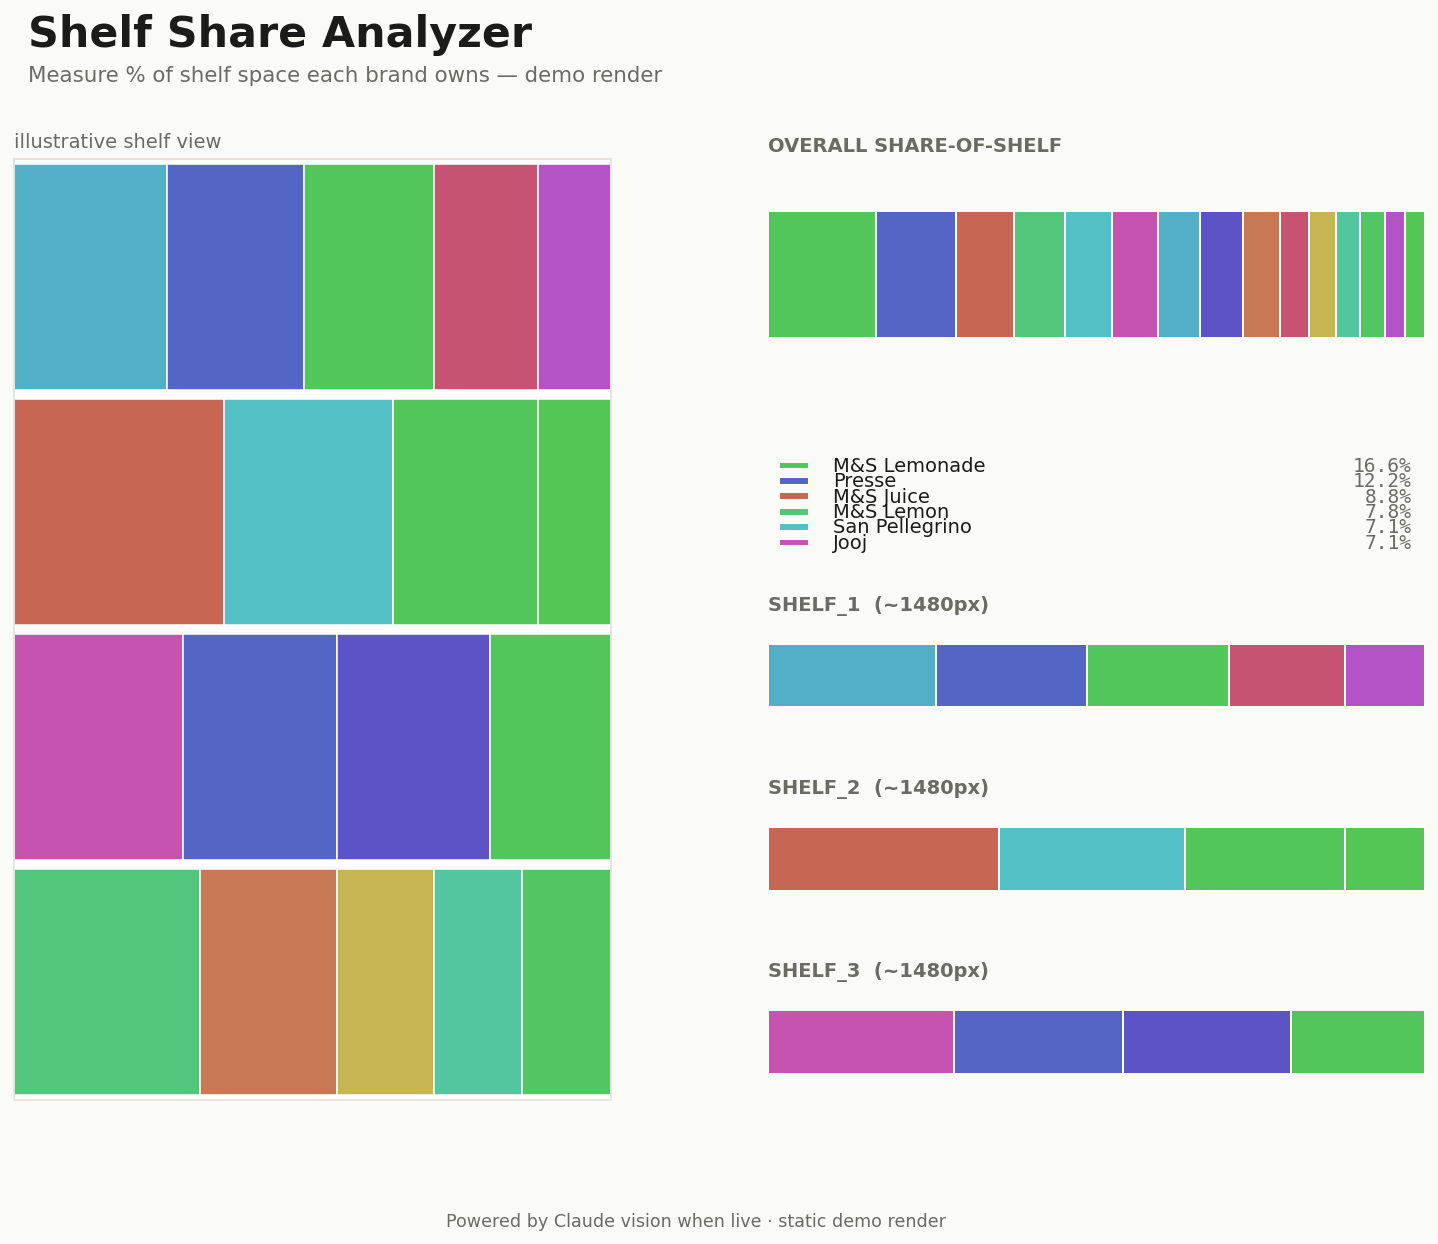
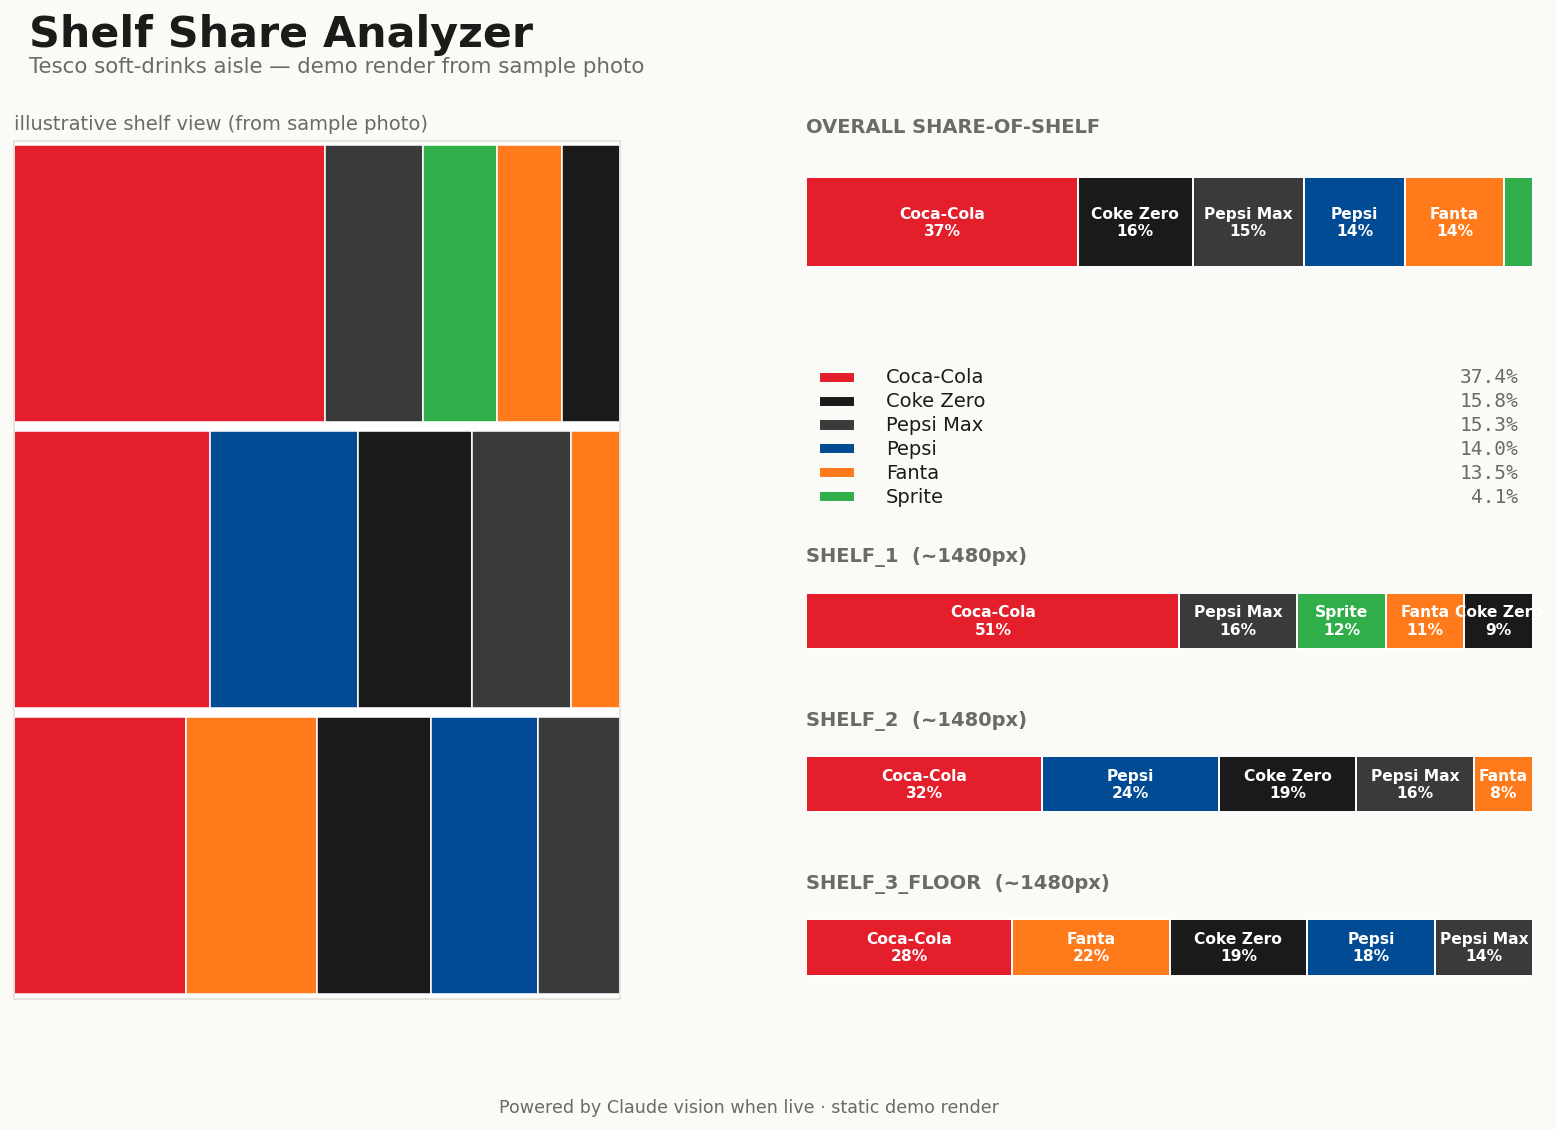
update mock data + render to match sample Tesco soft-drinks photo
Replaces the M&S-themed canned data with a Coke/Pepsi/Fanta/Sprite mix
and gives those brands true brand colours in the PNG render.

https://claude.ai/code/session_01UH64QWwZP6UqPea4zwyqt8

diff --git a/demo.html b/demo.html
@@ -85,30 +85,25 @@ main{max-width:1100px;margin:0 auto;padding:28px 24px 48px}
 const DATA = {
   shelves: [
     { shelf:"shelf_1", total_width_px:1480, brands:[
-      {brand:"M&S Lemonade",    width_px:320},
-      {brand:"M&S Ginger Beer", width_px:180},
-      {brand:"M&S Blends",      width_px:380},
-      {brand:"M&S Cordial",     width_px:260},
-      {brand:"Presse",          width_px:340},
+      {brand:"Pepsi Max",  width_px:240},
+      {brand:"Sprite",     width_px:180},
+      {brand:"Coca-Cola",  width_px:760},
+      {brand:"Coke Zero",  width_px:140},
+      {brand:"Fanta",      width_px:160},
     ]},
     { shelf:"shelf_2", total_width_px:1480, brands:[
-      {brand:"M&S Lemonade",      width_px:360},
-      {brand:"San Pellegrino",    width_px:420},
-      {brand:"M&S British Apple", width_px:180},
-      {brand:"M&S Juice",         width_px:520},
+      {brand:"Pepsi",      width_px:360},
+      {brand:"Pepsi Max",  width_px:240},
+      {brand:"Coca-Cola",  width_px:480},
+      {brand:"Coke Zero",  width_px:280},
+      {brand:"Fanta",      width_px:120},
     ]},
-    { shelf:"shelf_3", total_width_px:1480, brands:[
-      {brand:"M&S Lemonade",   width_px:300},
-      {brand:"Jooj",           width_px:420},
-      {brand:"Presse",         width_px:380},
-      {brand:"M&S Sparkling",  width_px:380},
-    ]},
-    { shelf:"shelf_4", total_width_px:1480, brands:[
-      {brand:"Coca-Cola",       width_px:340},
-      {brand:"Fanta",           width_px:220},
-      {brand:"Coca-Cola Zero",  width_px:240},
-      {brand:"M&S Cola",        width_px:220},
-      {brand:"M&S Lemon",       width_px:460},
+    { shelf:"shelf_3_floor", total_width_px:1480, brands:[
+      {brand:"Pepsi",      width_px:260},
+      {brand:"Pepsi Max",  width_px:200},
+      {brand:"Coca-Cola",  width_px:420},
+      {brand:"Coke Zero",  width_px:280},
+      {brand:"Fanta",      width_px:320},
     ]},
   ]
 };

diff --git a/app.py b/app.py
@@ -29,39 +29,32 @@ MOCK_RESULT = {
         {
             "shelf": "shelf_1", "total_width_px": 1480,
             "brands": [
-                {"brand": "M&S Lemonade",     "width_px": 320},
-                {"brand": "M&S Ginger Beer",  "width_px": 180},
-                {"brand": "M&S Blends",       "width_px": 380},
-                {"brand": "M&S Cordial",      "width_px": 260},
-                {"brand": "Presse",           "width_px": 340},
+                {"brand": "Pepsi Max",   "width_px": 240},
+                {"brand": "Sprite",      "width_px": 180},
+                {"brand": "Coca-Cola",   "width_px": 560},
+                {"brand": "Coke Zero",   "width_px": 140},
+                {"brand": "Fanta",       "width_px": 160},
+                {"brand": "Coca-Cola",   "width_px": 200},
             ],
         },
         {
             "shelf": "shelf_2", "total_width_px": 1480,
             "brands": [
-                {"brand": "M&S Lemonade",       "width_px": 360},
-                {"brand": "San Pellegrino",     "width_px": 420},
-                {"brand": "M&S British Apple",  "width_px": 180},
-                {"brand": "M&S Juice",          "width_px": 520},
+                {"brand": "Pepsi",       "width_px": 360},
+                {"brand": "Pepsi Max",   "width_px": 240},
+                {"brand": "Coca-Cola",   "width_px": 480},
+                {"brand": "Coke Zero",   "width_px": 280},
+                {"brand": "Fanta",       "width_px": 120},
             ],
         },
         {
-            "shelf": "shelf_3", "total_width_px": 1480,
+            "shelf": "shelf_3_floor", "total_width_px": 1480,
             "brands": [
-                {"brand": "M&S Lemonade",     "width_px": 300},
-                {"brand": "Jooj",             "width_px": 420},
-                {"brand": "Presse",           "width_px": 380},
-                {"brand": "M&S Sparkling",    "width_px": 380},
-            ],
-        },
-        {
-            "shelf": "shelf_4", "total_width_px": 1480,
-            "brands": [
-                {"brand": "Coca-Cola",        "width_px": 340},
-                {"brand": "Fanta",            "width_px": 220},
-                {"brand": "Coca-Cola Zero",   "width_px": 240},
-                {"brand": "M&S Cola",         "width_px": 220},
-                {"brand": "M&S Lemon",        "width_px": 460},
+                {"brand": "Pepsi",       "width_px": 260},
+                {"brand": "Pepsi Max",   "width_px": 200},
+                {"brand": "Coca-Cola",   "width_px": 420},
+                {"brand": "Coke Zero",   "width_px": 280},
+                {"brand": "Fanta",       "width_px": 320},
             ],
         },
     ]
